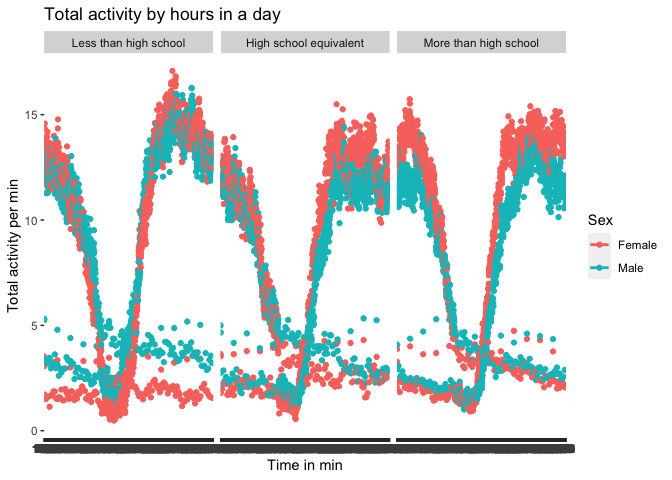
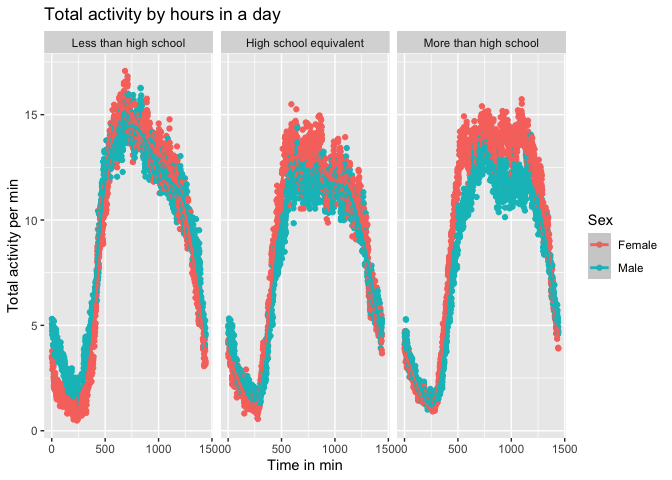
updated last plot

diff --git a/p8105_hw3_sw3879.md b/p8105_hw3_sw3879.md
@@ -276,7 +276,8 @@ accel = read_csv("data/nhanes_accel.csv") |>
 Merge demo and accel data
 
 ``` r
-merged_df = left_join(demo, accel, by = "seqn")
+merged_df = left_join(demo, accel, by = "seqn") |> 
+  mutate(time_min = as.numeric(time_min))
 ```
 
 Produce a reader-friendly table for the number of men and women in each
@@ -346,7 +347,7 @@ merged_df |>
   group_by(time_min, education, sex) |> 
   summarize(data_per_min = mean(as.numeric(accel_data))) |> 
   ggplot(aes(x = time_min, y = data_per_min, color = sex)) +
-  geom_point() + geom_smooth(se = FALSE) +
+  geom_point() + geom_smooth() +
   labs(title = "Total activity by hours in a day",
        x = "Time in min",
        y = "Total activity per min",
@@ -356,6 +357,6 @@ merged_df |>
 
     ## `summarise()` has grouped output by 'time_min', 'education'. You can override
     ## using the `.groups` argument.
-    ## `geom_smooth()` using method = 'loess' and formula = 'y ~ x'
+    ## `geom_smooth()` using method = 'gam' and formula = 'y ~ s(x, bs = "cs")'
 
 ![](p8105_hw3_sw3879_files/figure-gfm/unnamed-chunk-20-1.png)<!-- -->
